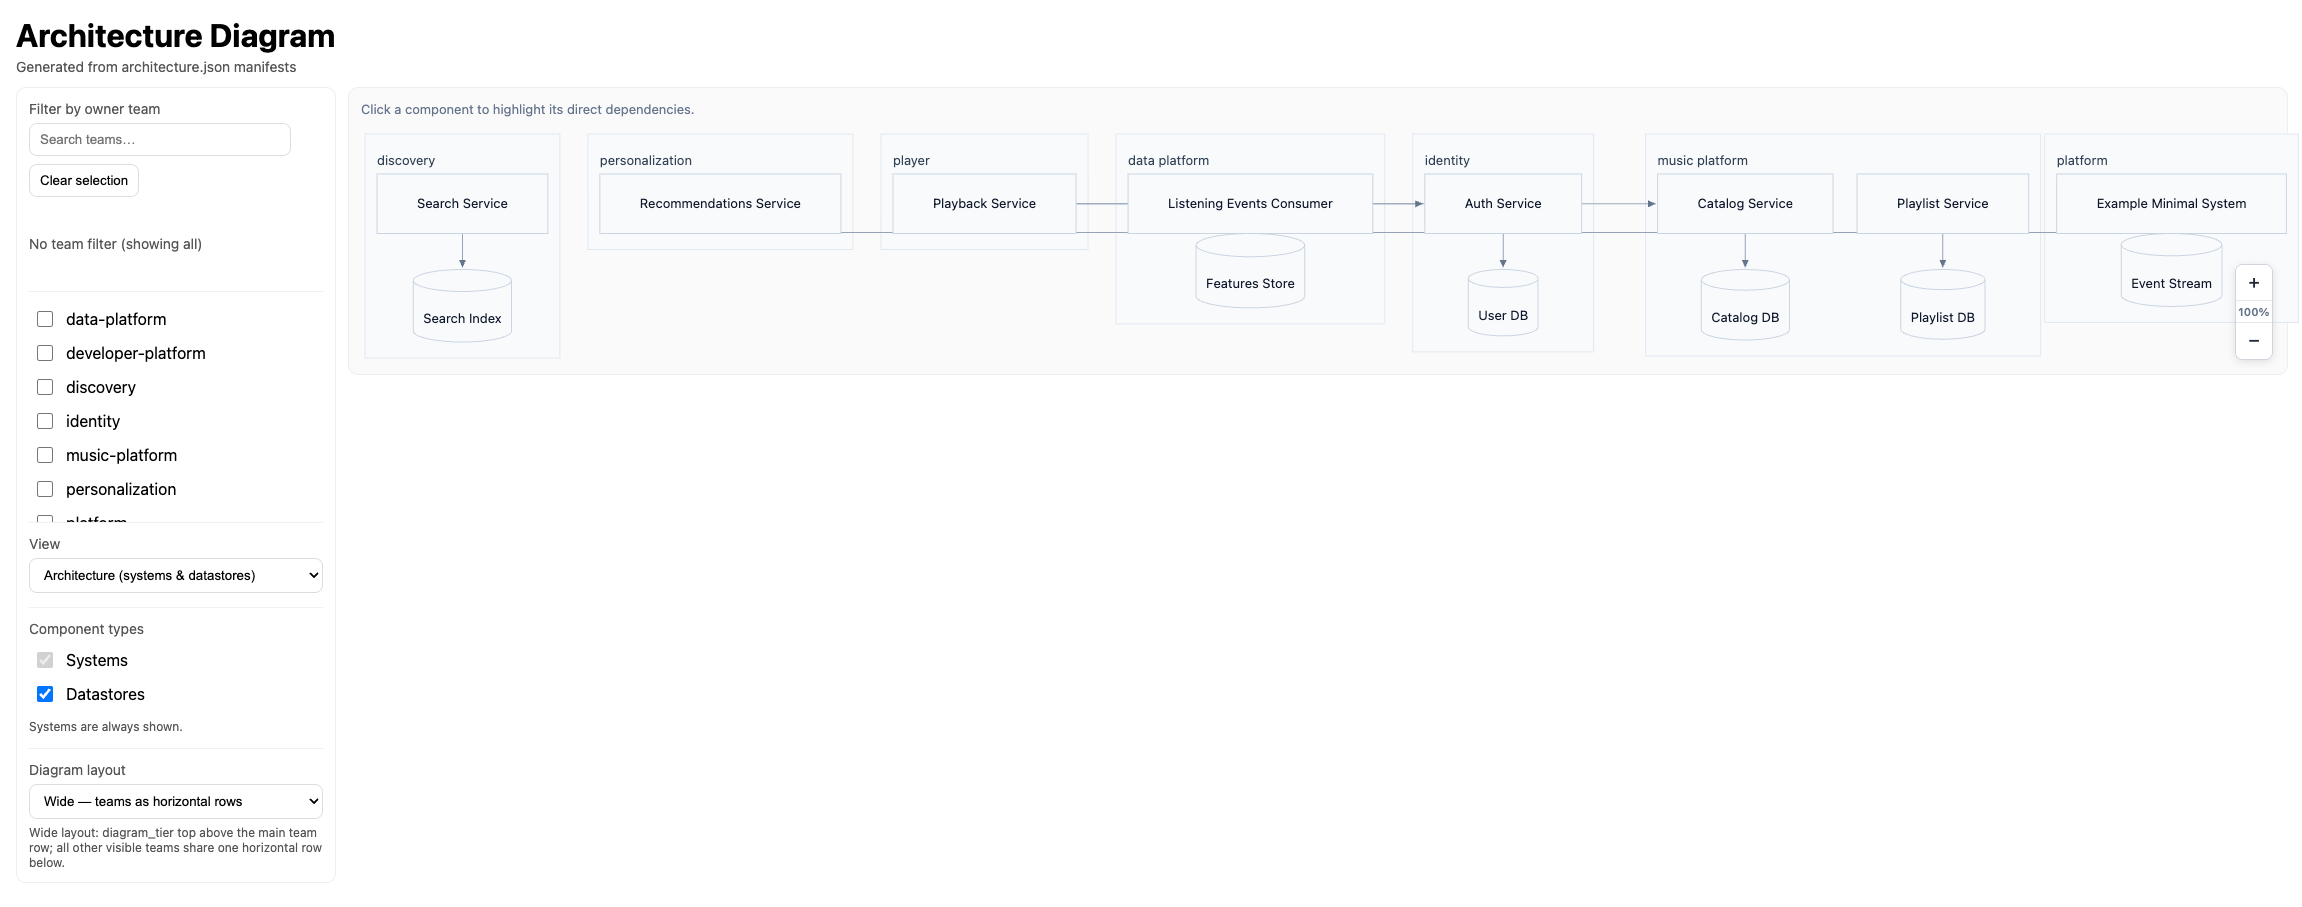
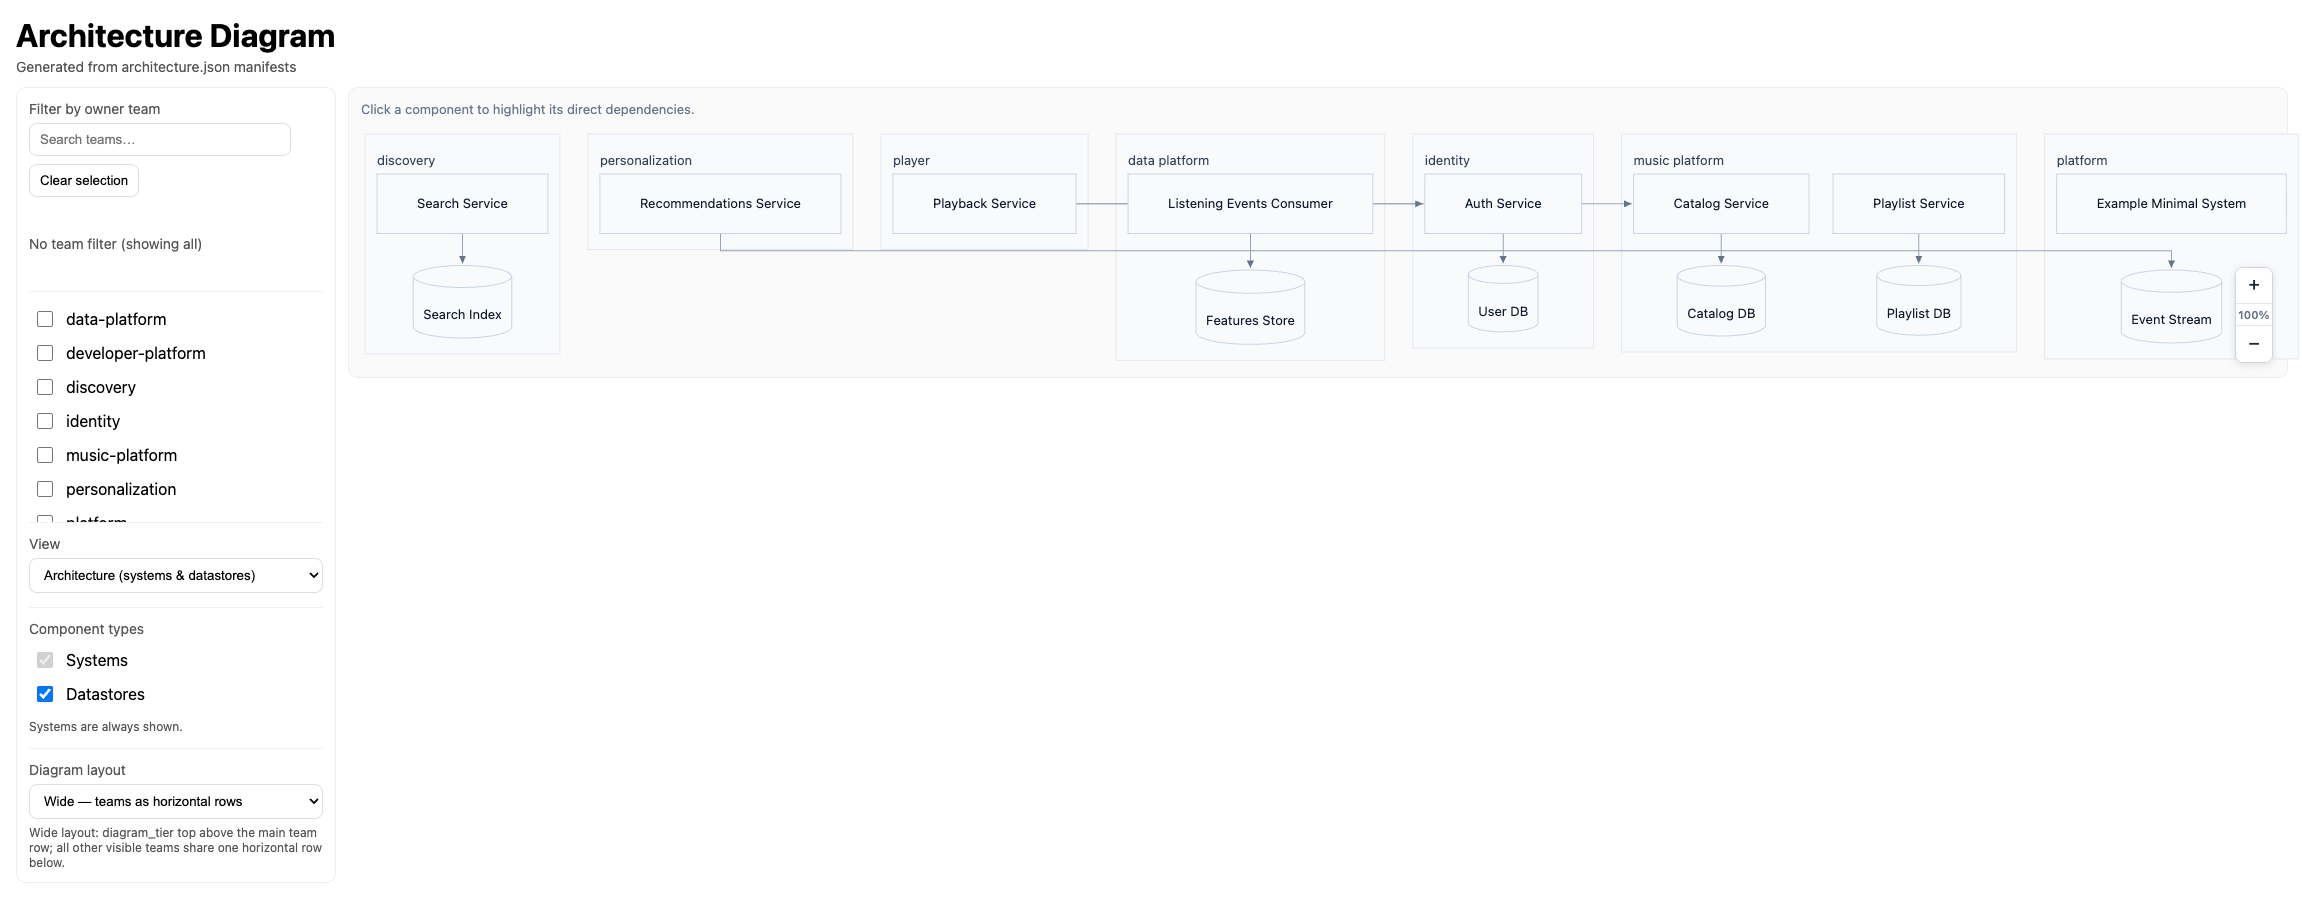
adjusts datastore spacing in wide layout

diff --git a/src/web/alignTeamRowLayout.ts b/src/web/alignTeamRowLayout.ts
@@ -7,6 +7,8 @@ const TEAM_ROW_GAP = 44
 const MAX_TEAM_ROW_WIDTH = 2400
 const MIN_TEAM_GAP = 28
 const KIND_LAYER_GAP = 36
+const SERVICE_DATASTORE_GAP = 32
+const MIN_SYSTEM_NODE_HEIGHT = 60
 const NODE_H_GAP = 24
 const TEAM_PAD_X = 12
 const TEAM_PAD_Y = 16
@@ -657,10 +659,11 @@ function planTeamLayout(svg: SVGSVGElement, teamNodes: WebNode[], includedEdges:
 
     for (const system of systemNodes) {
         const systemSize = nodeSize(svg, system)
+        const systemHeight = Math.max(systemSize.height, MIN_SYSTEM_NODE_HEIGHT)
         const datastores = datastoresByService.get(system.uid) ?? []
         const datastoreMetrics = rowMetrics(svg, datastores)
         const hasDatastores = datastores.length > 0
-        const height = systemSize.height + (hasDatastores ? KIND_LAYER_GAP + datastoreMetrics.rowHeight : 0)
+        const height = systemHeight + (hasDatastores ? SERVICE_DATASTORE_GAP + datastoreMetrics.rowHeight : 0)
         const width = Math.max(systemSize.width, datastoreMetrics.rowWidth)
 
         columns.push({
@@ -668,7 +671,7 @@ function planTeamLayout(svg: SVGSVGElement, teamNodes: WebNode[], includedEdges:
             datastores,
             width,
             height,
-            systemHeight: systemSize.height,
+            systemHeight,
             datastoreRowWidth: datastoreMetrics.rowWidth,
             datastoreRowHeight: datastoreMetrics.rowHeight,
         })
@@ -709,6 +712,10 @@ function planTeamLayout(svg: SVGSVGElement, teamNodes: WebNode[], includedEdges:
         height += columnRowHeight
     }
 
+    if (columns.length > 0 && layers.length > 0) {
+        height += KIND_LAYER_GAP
+    }
+
     if (sharedDatastoreLayer) {
         width = Math.max(width, sharedDatastoreLayer.rowWidth + TEAM_PAD_X * 2)
         height += (columns.length > 0 || layers.length > 0 ? KIND_LAYER_GAP : 0) + sharedDatastoreLayer.rowHeight
@@ -734,10 +741,12 @@ function placeTeam(
 
         for (const column of plan.columns) {
             const systemGroup = findNodeGroup(svg, column.system.uid)
+            let datastoreY = rowY + column.systemHeight + SERVICE_DATASTORE_GAP
 
             if (systemGroup) {
                 const systemSize = nodeLocalBox(systemGroup)
                 setNodeAbsolutePosition(systemGroup, columnX + (column.width - systemSize.width) / 2, rowY)
+                datastoreY = nodeBounds(systemGroup).y + systemSize.height + SERVICE_DATASTORE_GAP
             }
 
             let datastoreX = columnX + Math.max(0, (column.width - column.datastoreRowWidth) / 2)
@@ -749,7 +758,7 @@ function placeTeam(
                     continue
                 }
 
-                setNodeAbsolutePosition(datastoreGroup, datastoreX, rowY + column.systemHeight + KIND_LAYER_GAP)
+                setNodeAbsolutePosition(datastoreGroup, datastoreX, datastoreY)
                 datastoreX += nodeLocalBox(datastoreGroup).width + NODE_H_GAP
             }
 
@@ -757,6 +766,10 @@ function placeTeam(
         }
 
         rowY += plan.columnRowHeight
+
+        if (plan.layers.length > 0 || plan.sharedDatastores) {
+            rowY += KIND_LAYER_GAP
+        }
     }
 
     for (const layer of plan.layers) {